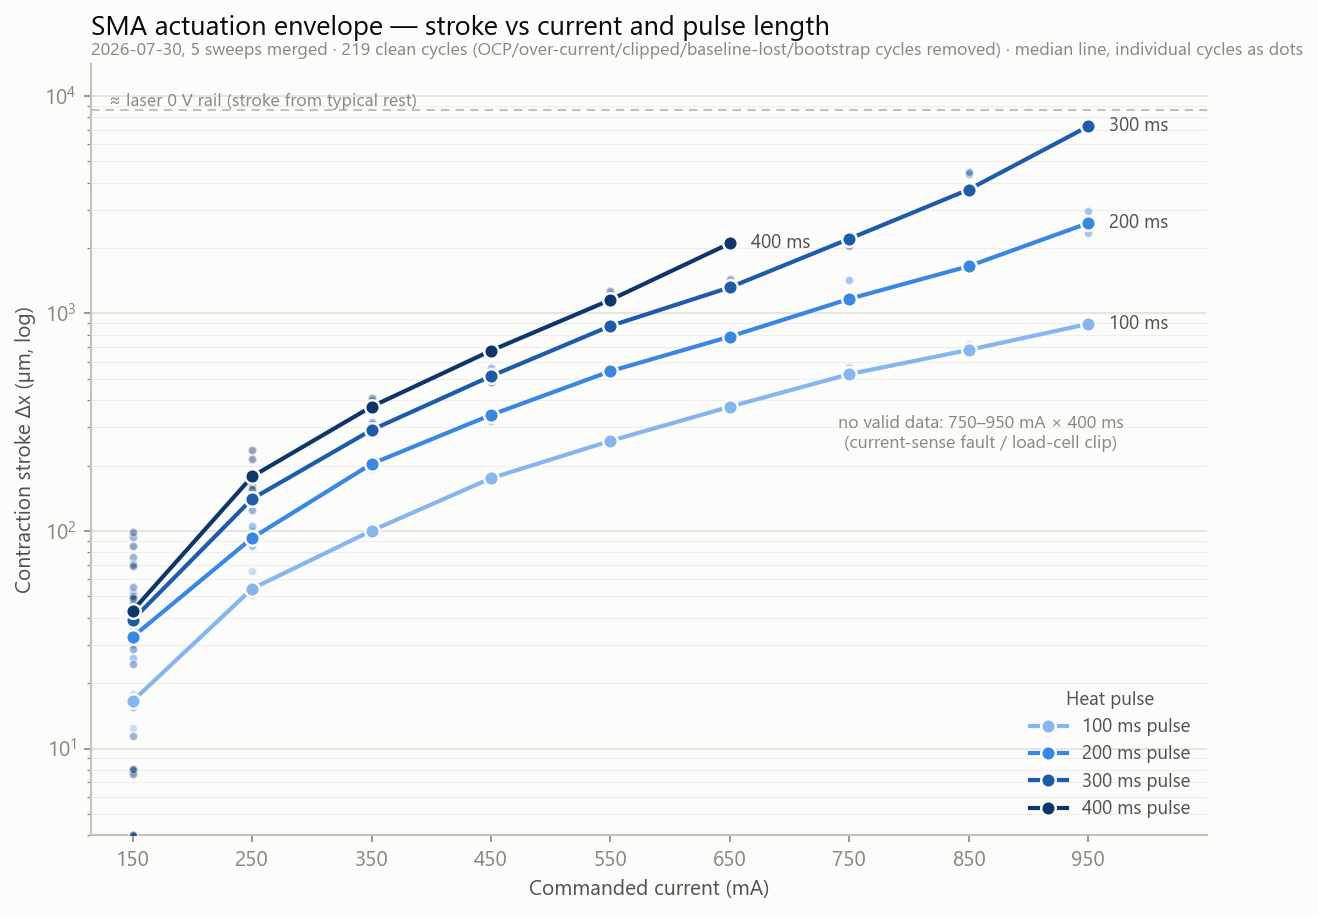
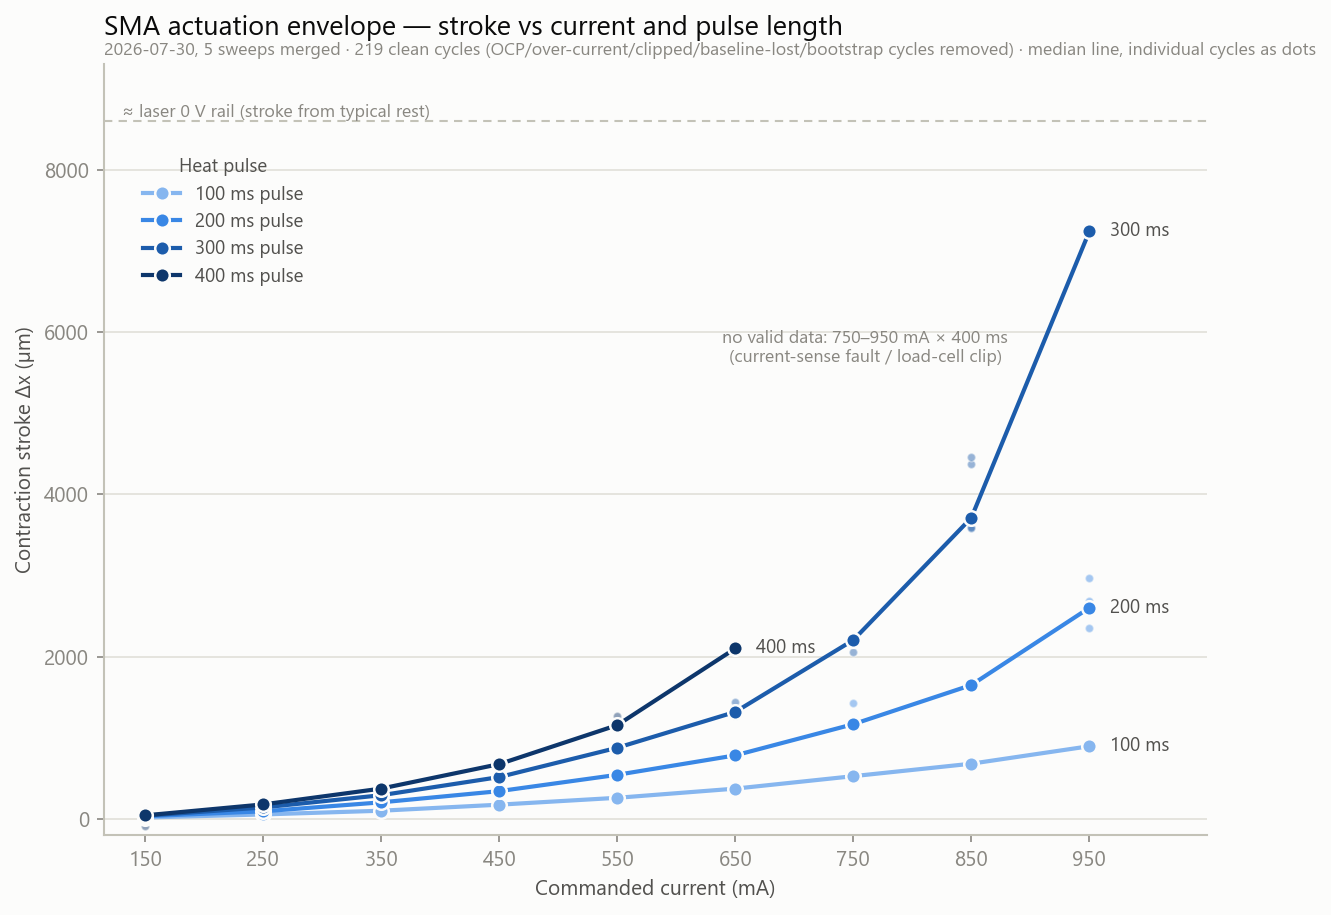
thermal: envelope charts on linear y-scale
Log scale flattened the knee; linear shows the super-linear growth above
550 mA directly and the remaining headroom to the laser 0 V rail and the
load-cell 490 mN full scale. Legends move to the upper left to clear the
direct labels.

diff --git a/Experiment_SMAThermalCharacterization/data/make_heat_time_map_clean.py b/Experiment_SMAThermalCharacterization/data/make_heat_time_map_clean.py
@@ -112,22 +112,19 @@ fig, ax = plt.subplots(figsize=(9.2, 6.2), dpi=150)
 fig.patch.set_facecolor(SURFACE)
 ax.set_facecolor(SURFACE)
 
-Y_FLOOR = 4.0
-n_below = 0
 for h in HEATS:
     c = SERIES[h]
     med = []
     for lv in LEVELS:
         cell = env.get((h, lv))
         med.append(np.median(cell["dx"]) if cell else np.nan)
-        if cell:  # cycle scatter, clipped to the log floor
+        if cell:
             dx = cell["dx"]
-            n_below += int((dx < Y_FLOOR).sum())
-            ax.scatter([lv] * len(dx), np.clip(dx, Y_FLOOR, None),
+            ax.scatter([lv] * len(dx), dx,
                        s=16, color=c, alpha=0.45, edgecolors=SURFACE,
                        linewidths=0.8, zorder=3)
     med = np.array(med, dtype=float)
-    ax.plot(LEVELS, np.clip(med, Y_FLOOR, None), color=c, linewidth=2,
+    ax.plot(LEVELS, med, color=c, linewidth=2,
             marker="o", markersize=7, markeredgecolor=SURFACE,
             markeredgewidth=1.2, zorder=4, label=f"{h} ms pulse")
     # direct label at the last valid point
@@ -145,20 +142,18 @@ ax.text(130, 8600, "≈ laser 0 V rail (stroke from typical rest)", fontsize=8.5
 
 # missing corner annotation
 ax.annotate("no valid data: 750–950 mA × 400 ms\n(current-sense fault / load-cell clip)",
-            xy=(860, 280), fontsize=8.5, color=MUTED, ha="center", va="center")
+            xy=(760, 5800), fontsize=8.5, color=MUTED, ha="center", va="center")
 
-ax.set_yscale("log")
-ax.set_ylim(Y_FLOOR, 14000)
+ax.set_ylim(-200, 9300)
 ax.set_xticks(LEVELS)
 ax.set_xlim(115, 1050)
-ax.grid(axis="y", color=GRID, linewidth=0.8, which="major")
-ax.grid(axis="y", color=GRID, linewidth=0.4, alpha=0.6, which="minor")
+ax.grid(axis="y", color=GRID, linewidth=0.8)
 ax.set_axisbelow(True)
 for side in ("top", "right"):
     ax.spines[side].set_visible(False)
 
 ax.set_xlabel("Commanded current (mA)")
-ax.set_ylabel("Contraction stroke Δx (µm, log)")
+ax.set_ylabel("Contraction stroke Δx (µm)")
 ax.set_title("SMA actuation envelope — stroke vs current and pulse length",
              fontsize=13, loc="left", pad=14)
 sub = (f"2026-07-30, {len(SWEEPS)} sweeps merged · {len(good)} clean cycles "
@@ -166,7 +161,8 @@ sub = (f"2026-07-30, {len(SWEEPS)} sweeps merged · {len(good)} clean cycles "
        f"median line, individual cycles as dots")
 ax.text(0, 1.012, sub, transform=ax.transAxes, fontsize=8.5, color=MUTED)
 
-leg = ax.legend(loc="lower right", frameon=False, fontsize=9,
+leg = ax.legend(loc="upper left", bbox_to_anchor=(0.02, 0.90),
+                frameon=False, fontsize=9,
                 title="Heat pulse", title_fontsize=9)
 leg.get_title().set_color(INK2)
 for t in leg.get_texts():
@@ -176,14 +172,12 @@ png_path = os.path.join(BASE, "heat_time_map_20260730_envelope.png")
 fig.tight_layout()
 fig.savefig(png_path, facecolor=SURFACE, bbox_inches="tight")
 print("wrote", png_path)
-print(f"scatter points clipped to {Y_FLOOR} um floor (noise floor): {n_below}")
 
 # ------------------------------------------------------- force chart
 fig2, ax2 = plt.subplots(figsize=(9.2, 6.2), dpi=150)
 fig2.patch.set_facecolor(SURFACE)
 ax2.set_facecolor(SURFACE)
 
-F_FLOOR = 0.2
 for h in HEATS:
     c = SERIES[h]
     med = []
@@ -192,11 +186,11 @@ for h in HEATS:
         med.append(np.median(cell["f"]) if cell else np.nan)
         if cell:
             fm = cell["f"]
-            ax2.scatter([lv] * len(fm), np.clip(fm, F_FLOOR, None),
+            ax2.scatter([lv] * len(fm), fm,
                         s=16, color=c, alpha=0.45, edgecolors=SURFACE,
                         linewidths=0.8, zorder=3)
     med = np.array(med, dtype=float)
-    ax2.plot(LEVELS, np.clip(med, F_FLOOR, None), color=c, linewidth=2,
+    ax2.plot(LEVELS, med, color=c, linewidth=2,
              marker="o", markersize=7, markeredgecolor=SURFACE,
              markeredgewidth=1.2, zorder=4, label=f"{h} ms pulse")
     last = max(i for i in range(len(LEVELS)) if not np.isnan(med[i]))
@@ -207,24 +201,19 @@ for h in HEATS:
 ax2.axhline(490, color=AXIS, linewidth=1, linestyle=(0, (4, 3)), zorder=2)
 ax2.text(1040, 490, "load-cell full scale (5 V ≈ 490 mN)", fontsize=8.5,
          color=MUTED, va="bottom", ha="right")
-ax2.axhline(0.5, color=AXIS, linewidth=1, linestyle=(0, (1, 3)), zorder=2)
-ax2.text(130, 0.5, "≈ load-cell noise floor", fontsize=8.5,
-         color=MUTED, va="bottom", ha="left")
 ax2.annotate("no valid data: 750–950 mA × 400 ms\n(current-sense fault / load-cell clip)",
-             xy=(860, 7), fontsize=8.5, color=MUTED, ha="center", va="center")
+             xy=(550, 380), fontsize=8.5, color=MUTED, ha="center", va="center")
 
-ax2.set_yscale("log")
-ax2.set_ylim(F_FLOOR, 900)
+ax2.set_ylim(-10, 520)
 ax2.set_xticks(LEVELS)
 ax2.set_xlim(115, 1050)
-ax2.grid(axis="y", color=GRID, linewidth=0.8, which="major")
-ax2.grid(axis="y", color=GRID, linewidth=0.4, alpha=0.6, which="minor")
+ax2.grid(axis="y", color=GRID, linewidth=0.8)
 ax2.set_axisbelow(True)
 for side in ("top", "right"):
     ax2.spines[side].set_visible(False)
 
 ax2.set_xlabel("Commanded current (mA)")
-ax2.set_ylabel("Force rise (mN, log)")
+ax2.set_ylabel("Force rise (mN)")
 ax2.set_title("SMA force envelope — load-cell force rise vs current and pulse length",
               fontsize=13, loc="left", pad=14)
 sub2 = (f"2026-07-30, same {len(good)} clean cycles · 98.0 mN/V "
@@ -232,7 +221,8 @@ sub2 = (f"2026-07-30, same {len(good)} clean cycles · 98.0 mN/V "
         f"median line, individual cycles as dots")
 ax2.text(0, 1.012, sub2, transform=ax2.transAxes, fontsize=8.5, color=MUTED)
 
-leg2 = ax2.legend(loc="lower right", frameon=False, fontsize=9,
+leg2 = ax2.legend(loc="upper left", bbox_to_anchor=(0.02, 0.90),
+                  frameon=False, fontsize=9,
                   title="Heat pulse", title_fontsize=9)
 leg2.get_title().set_color(INK2)
 for t in leg2.get_texts():
